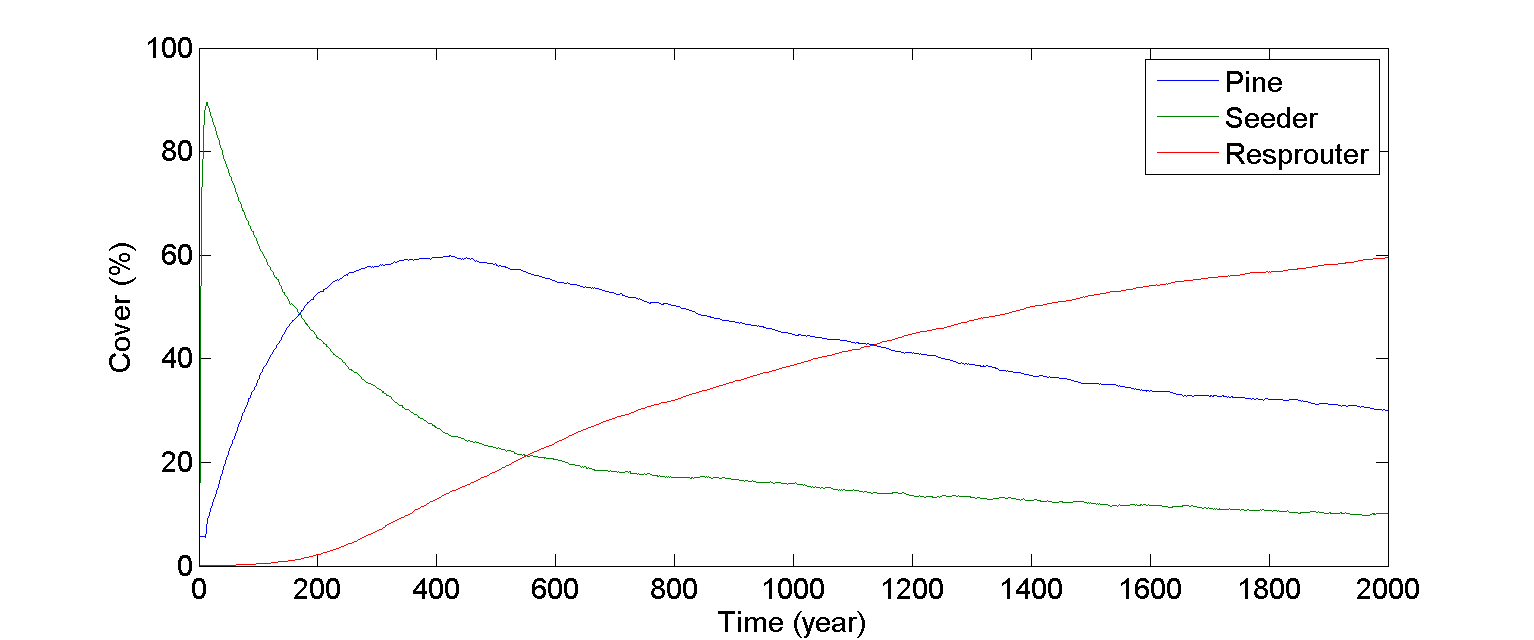
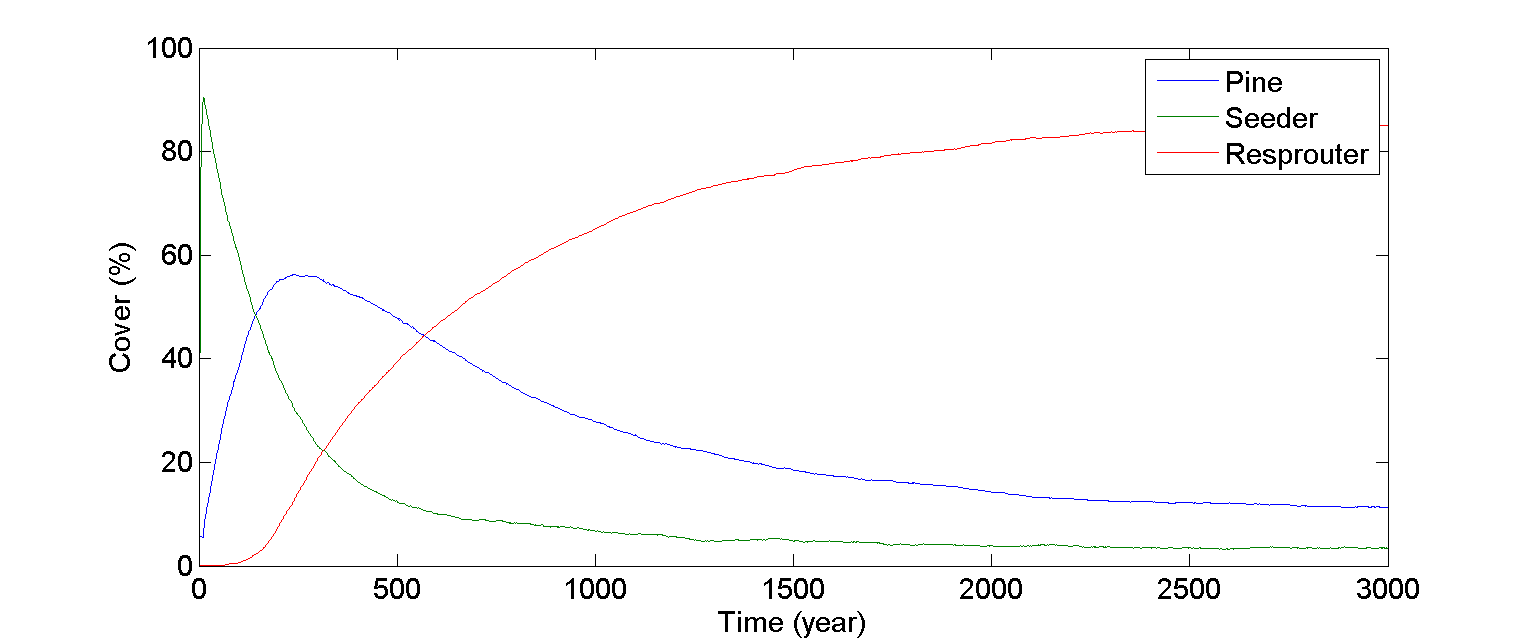
runs

diff --git a/firePT.m b/firePT.m
@@ -132,12 +132,12 @@ while Time < EndTime
     if TC(Age>AgeMP)==1 %because in the first years pine do not create litter
         [x,y]=find(TC(2:end-1,2:end-1)==1); %consider including here litter deposition only after a certain age
         x=x+1;y=y+1;
-        for i=1:length(x)
-            Lit(x(i)-1:x(i)+1,y(i)-1:y(i)+1)=Lit(x(i)-1:x(i)+1,y(i)-1:y(i)+1)+lrate*dt;
-            %         !!! maybe consider adding litter in the neighbourhood of oak when it is dominant
+%         for i=1:length(x)
+%             Lit(x(i)-1:x(i)+1,y(i)-1:y(i)+1)=Lit(x(i)-1:x(i)+1,y(i)-1:y(i)+1)+lrate*dt;
+%             %         !!! maybe consider adding litter in the neighbourhood of oak when it is dominant
             %         and adult
         end
-    end
+   
     
     % SEED BANK CALCULATION ONLY ONCE A YEAR
     SB(1)=SBP1+SBP2+SeedFP*(1-canopyBank)*sum(sum(TC(Age>AgeMP)==1))+ReleaseSeeds;% TWO YEARS OF SEED LIFE; 1-canopybank is doing the same as canopy bank, i.e. *0.5
@@ -165,13 +165,13 @@ while Time < EndTime
             if TC(i,j)==0 % colonization/germination
                 
                 %                 COLONIZATION vs LITTER
-                
-                ProbG(1)=(maxG(1)+minG(1))/2+(maxG(1)-minG(1))/2*tanh((LitThreshP-Lit(i,j))/amp(1)) ...
-                    -(maxG(1)-ProbPZeroL)*exp(-2/LitThreshP*exp(1)*Lit(i,j)); % PINE
-                ProbG(2)=(maxG(2)+minG(2))/2+(maxG(2)-minG(2))/2*tanh((LitThreshS-Lit(i,j))/amp(2)); % SEEDER ampS=0.3 max=.9 min=0.
-                ProbG(3)=maxG(3)-(maxG(3)-minG(3))*exp(-Lit(i,j)); % QUERCUS
-                
-                
+%                 
+%                 ProbG(1)=(maxG(1)+minG(1))/2+(maxG(1)-minG(1))/2*tanh((LitThreshP-Lit(i,j))/amp(1)) ...
+%                     -(maxG(1)-ProbPZeroL)*exp(-2/LitThreshP*exp(1)*Lit(i,j)); % PINE
+%                 ProbG(2)=(maxG(2)+minG(2))/2+(maxG(2)-minG(2))/2*tanh((LitThreshS-Lit(i,j))/amp(2)); % SEEDER ampS=0.3 max=.9 min=0.
+%                 ProbG(3)=maxG(3)-(maxG(3)-minG(3))*exp(-Lit(i,j)); % QUERCUS
+%                 
+%                 
                 %%% TERM FOR PROBABILITY OF COLONIZATION vs. NUMBER OF SEEDS AND ESTABLISHMENT
                 
                 ProbS(1:2)=1-(1-1./est(1:2)).^(SB(1:2)/m/m); % FOR PINE AND SEEDERS, SEEDS ARE EQUALLY SPREAD THROUGHOUT THE CELLS; this was taken in the paper: Cannas et al. 2003
@@ -194,9 +194,9 @@ while Time < EndTime
                 
                 % COMBINING PROBABILITIES of establishment due to litter and seed numbers
                 %     % %!!!THIS TERM IS for test without litter
-                %ProbG=[1 1 1];
-                ProbG=ProbG.*ProbS;
-%                 ProbG=ProbS; % term for test in absence of litter ???
+                ProbG=[1 1 1];
+%                 ProbG=ProbG.*ProbS;
+                ProbG=ProbS; % term for test in absence of litter ???
                 
                 % this step has the improved version (Mara's) of Alains' MSc thesis trick
                 
@@ -214,7 +214,7 @@ while Time < EndTime
                 end
             else
                 Age(i,j)=Age(i,j)+dt;
-                Lit(i,j)=eflit.*Lit(i,j); %10% of the accumulated litter is degraded each year and 90% remains
+%                 Lit(i,j)=eflit.*Lit(i,j); %10% of the accumulated litter is degraded each year and 90% remains
                 
                 if test< mort(TC(i,j))*dt
                     TC(i,j)=0;
@@ -281,7 +281,7 @@ end
     colormap(VegetationColormap);
     colorbar
     drawnow;%pause;
-    
+
 %%%Plotting over time
 figure
 plot(VectorTime,StorePine/m/m*100,VectorTime,StoreSeeder/m/m*100,VectorTime,StoreOak/m/m*100)
